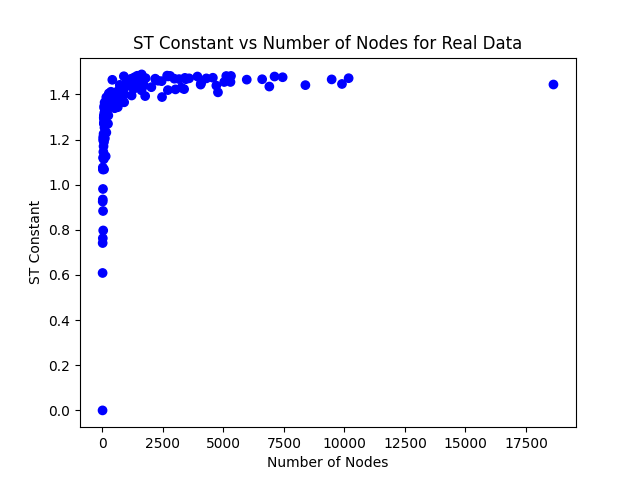
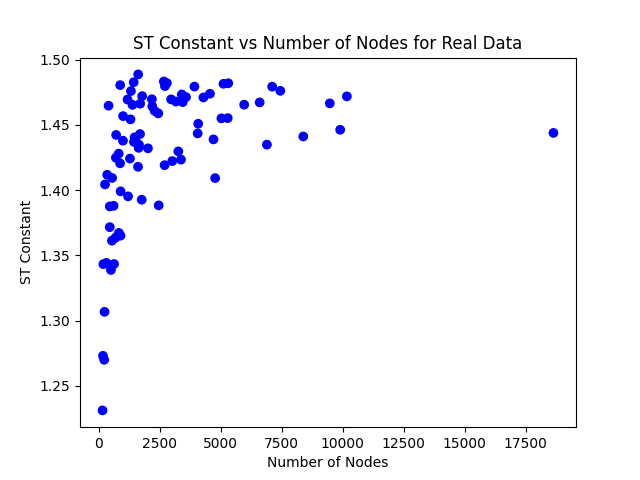
update real data plot

diff --git a/spanning_trees.py b/spanning_trees.py
@@ -868,13 +868,21 @@ else:
 # plot st constant v num of nodes #
 ###################################
 
+# Plot Real Data
+plt.scatter(num_nodes_real, tree_const_real, c=['b']*len(num_nodes_real))
+plt.title('ST Constant vs Number of Nodes for Real Data')
+plt.xlabel('Number of Nodes')
+plt.ylabel('ST Constant')
+plt.savefig(f'imgs/st_cons/st_cons_real_data.png')
+plt.show()
+
 # Plot Real Data and Model 1
 fig, axes = plt.subplots(1, 2, figsize=(12, 5))
 
 # First subplot: Original plot
 axes[0].scatter(num_nodes_real, tree_const_real, c=['b']*len(num_nodes_real))
 axes[0].scatter(num_nodes_m1, tree_const_m1, c=['r']*len(num_nodes_m1))
-axes[0].set_title('ST Constant vs Number of Nodes for Real Data')
+axes[0].set_title('ST Constant vs Number of Nodes')
 axes[0].set_xlabel('Number of Nodes')
 axes[0].set_ylabel('ST Constant')
 axes[0].legend(['real data', 'model 1'])
@@ -1000,5 +1008,5 @@ plt.title('ST Constant vs Number of Nodes')
 plt.xlabel('Number of Nodes')
 plt.ylabel('ST Constant')
 plt.legend(['real data', 'model 12'])
-plt.savefig(f'imgs/st_cons/st_cons_real_data_vs_models12.png')
+plt.savefig(f'imgs/st_cons/st_cons_real_data_vs_model12.png')
 plt.show()
